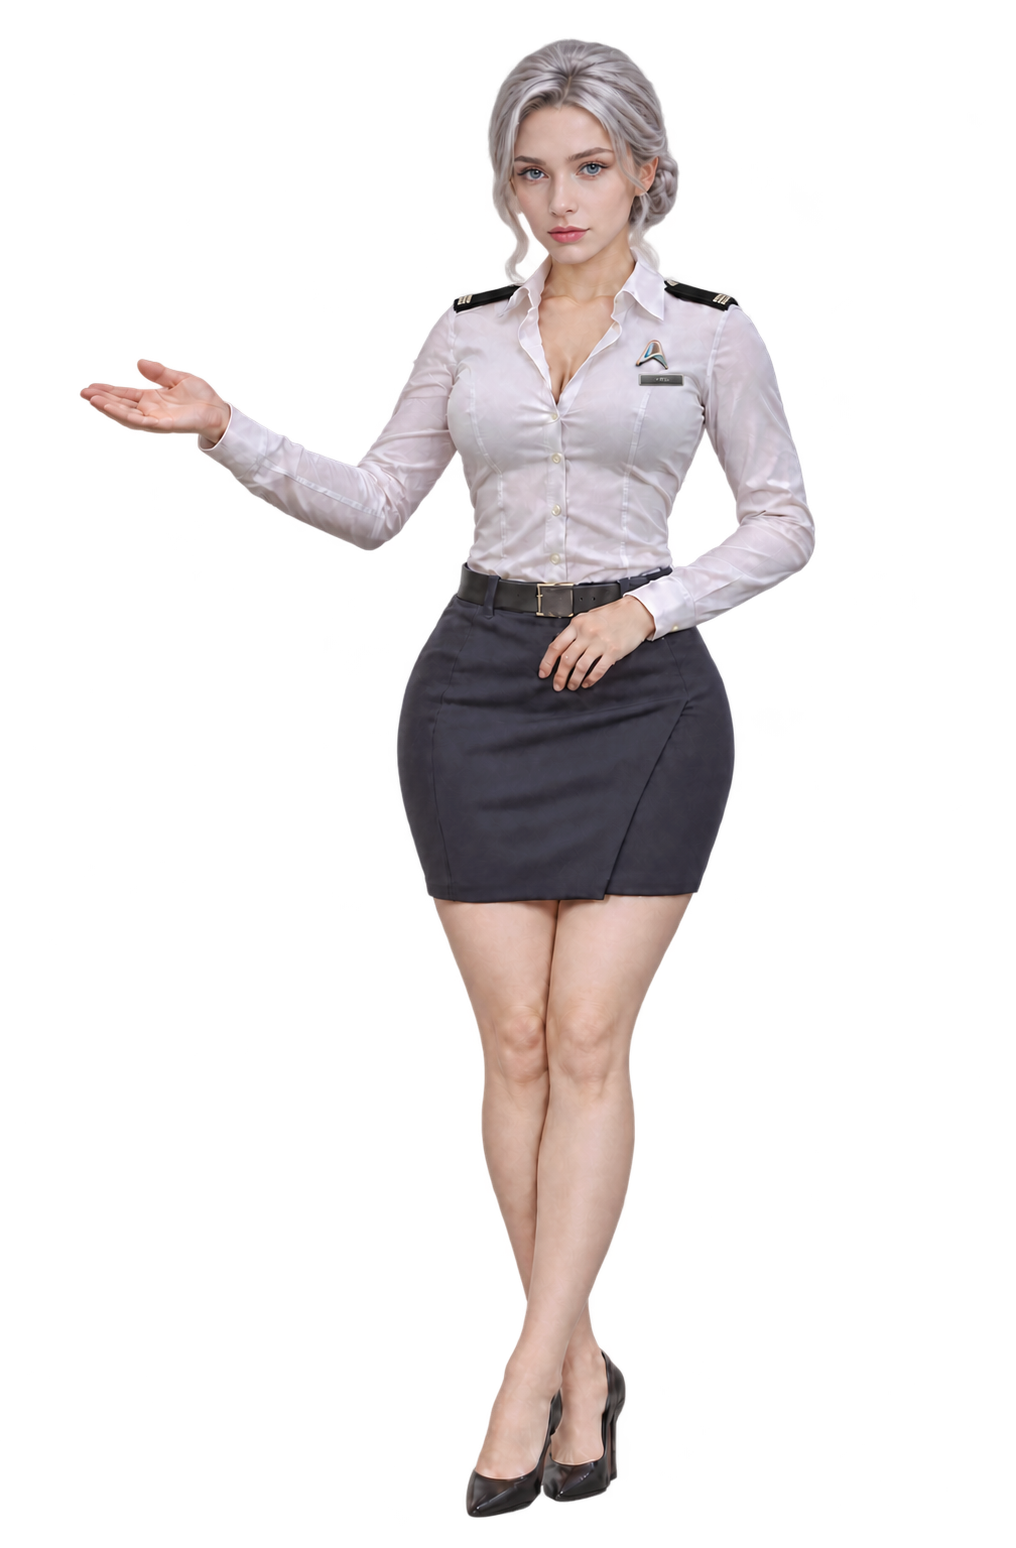
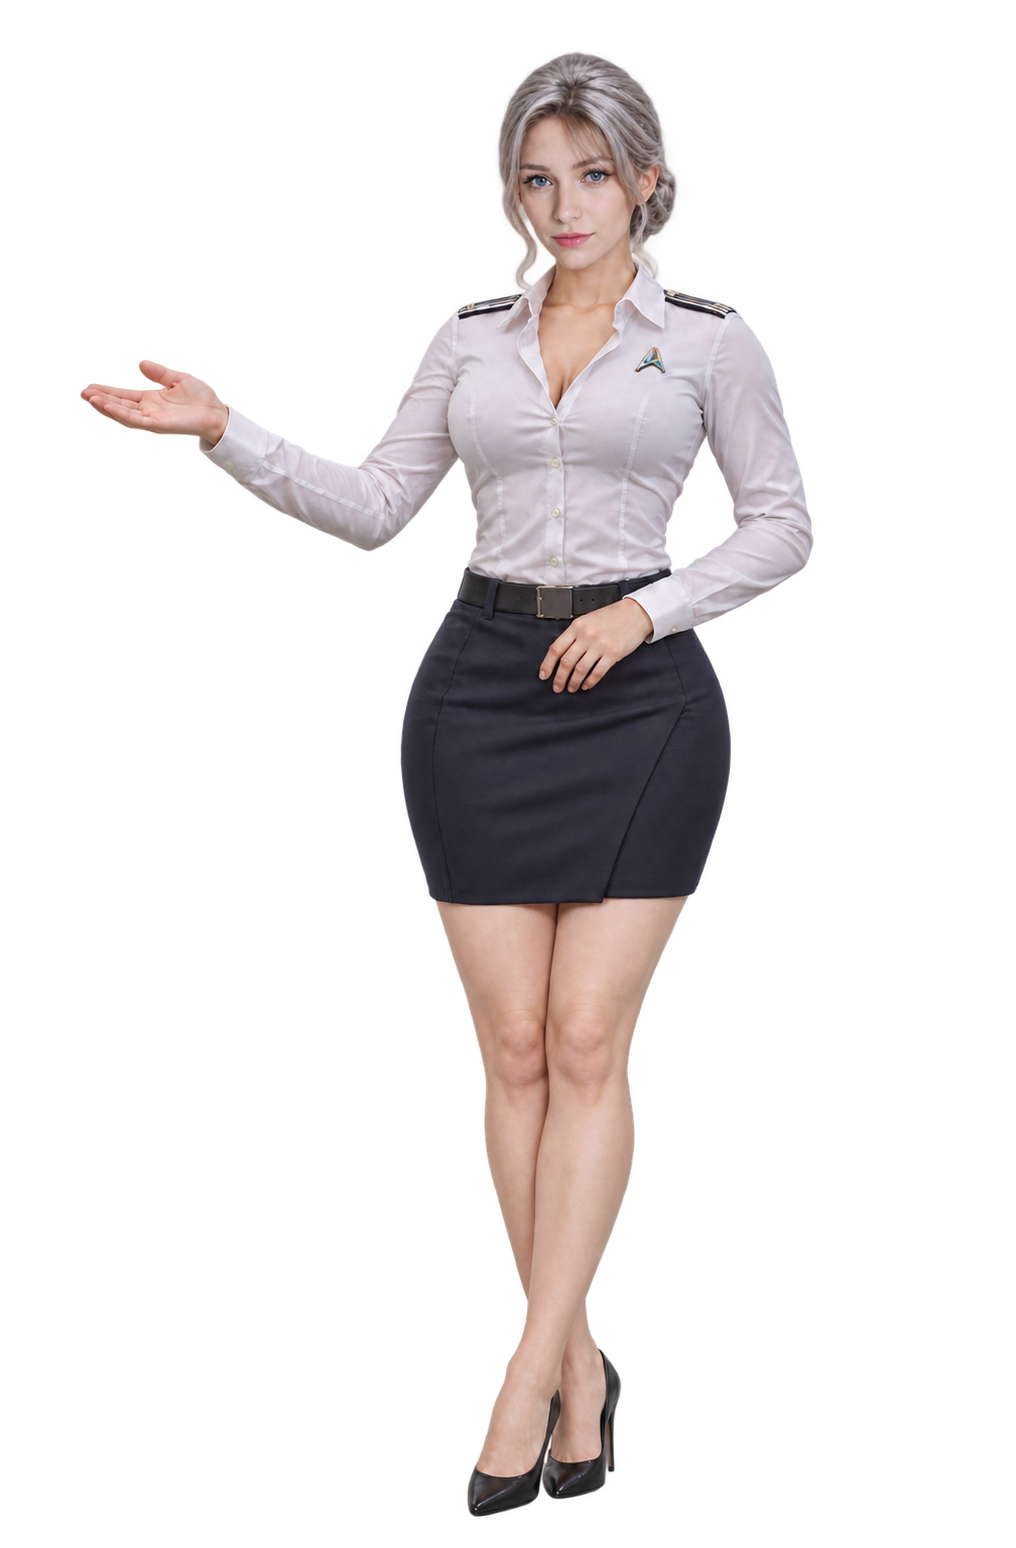
Replace tutorial director with the selected silver-haired artwork

diff --git a/PROJECT_STATUS.md b/PROJECT_STATUS.md
@@ -1,3 +1,9 @@
+## 2026-11-06 — 튜토리얼 플라이트 디렉터 선택 이미지 교체
+
+- 작업자 Codex, `feature/tutorial-flight-director-assets`, 보관용 draft PR14. 사용자가 새로 지정한 은발·푸른 눈·흰 셔츠·사선 스커트·구두·손바닥 안내 포즈의 시안으로 `assets/tutorial/flight-director.png` 및 `.webp`를 교체했다. 큰 금속 명찰/목걸이를 추가한 시안과 혼동하지 않는다. 선택 원본을 복사하며 캐릭터를 새로 생성하거나 디자인을 추가 수정하지 않았다.
[1 lines of base64/hex data omitted]
+- 최신 main을 보관 브랜치에 병합하고 완료된 오퍼레이터 교체를 미커밋 대기로 기록하던 과거 상태를 정리했다. 이번 변경은 플라이트 디렉터 자산 보관용이며 실제 튜토리얼 기능 배포나 기존 운항 파트너 교체가 아니다. Node22 guide/releases/updates 테스트 파일3개, 웹 자산 목록 포함, diff 검사 통과. 같은 PR14에 교체본을 업로드하며 실제 원격 반영 결과는 PR/Git 이력을 따른다.
+
 ## 2026-11-06 — v3.14.1 오퍼레이터 교체 공개 배포·검증 완료
 
 - 작업자 Codex. 사용자가 선택한 흑발·남색 제복 오퍼레이터를 PR15로 병합했다: `825499dd41bcd5ccb71de425c51ebb19238c503d`. 기능 head `4a169867dad1c0807af40d86b8a9b26335e4b151`의 PR CI42192529366 및 동일 head의 push 검증 모두 성공. Pages42192942079 성공, 첫 공개 시각 2026-11-06 18:10 KST. 이번 후속 기록은 업데이트 날짜를 실제 첫 공개 시각에 맞추며 새 기능/버전을 추가하지 않는다.

diff --git a/assets/tutorial/README.md b/assets/tutorial/README.md
@@ -1,10 +1,12 @@
 # Tutorial flight director
 
-The user selected this AI-generated character on 2026-11-06 for the separate tutorial flight director. She is not a hauling partner and must not replace the bridge operator or navigator.
+The user selected this AI-generated character on 2026-11-06 for the separate tutorial flight director, then explicitly replaced the initial selection with the silver-haired version shown in their latest reference. She is not a hauling partner and must not replace the bridge operator or navigator.
 
 - `flight-director.png`: selected original, 1016 × 1548 RGBA, copied without visual edits.
 - `flight-director.webp`: lossless web version, with decoded RGBA pixels identical to the PNG.
-- Appearance: silver hair in a low bun, white officer shirt, black shoulder boards, metal chest badge, dark diagonal-front skirt and black pumps; an open-palm presenting pose.
+- Appearance: silver hair in a compact low bun, blue eyes, white officer shirt with slim shoulder details and its original small chest insignia, dark diagonal-front skirt and black pumps; an open-palm presenting pose.
+- This selection has no large rectangular nameplate or pendant necklace. Preserve the selected design without applying accessories or body changes from other concepts.
[1 lines of base64/hex data omitted]
 
 These files are reserved for the future tutorial. No tutorial flow, dialogue, automatic first-visit launch or partner-selection entry is introduced by this asset addition. Use the WebP when connecting the tutorial UI and preserve its transparent background and aspect ratio.
 
